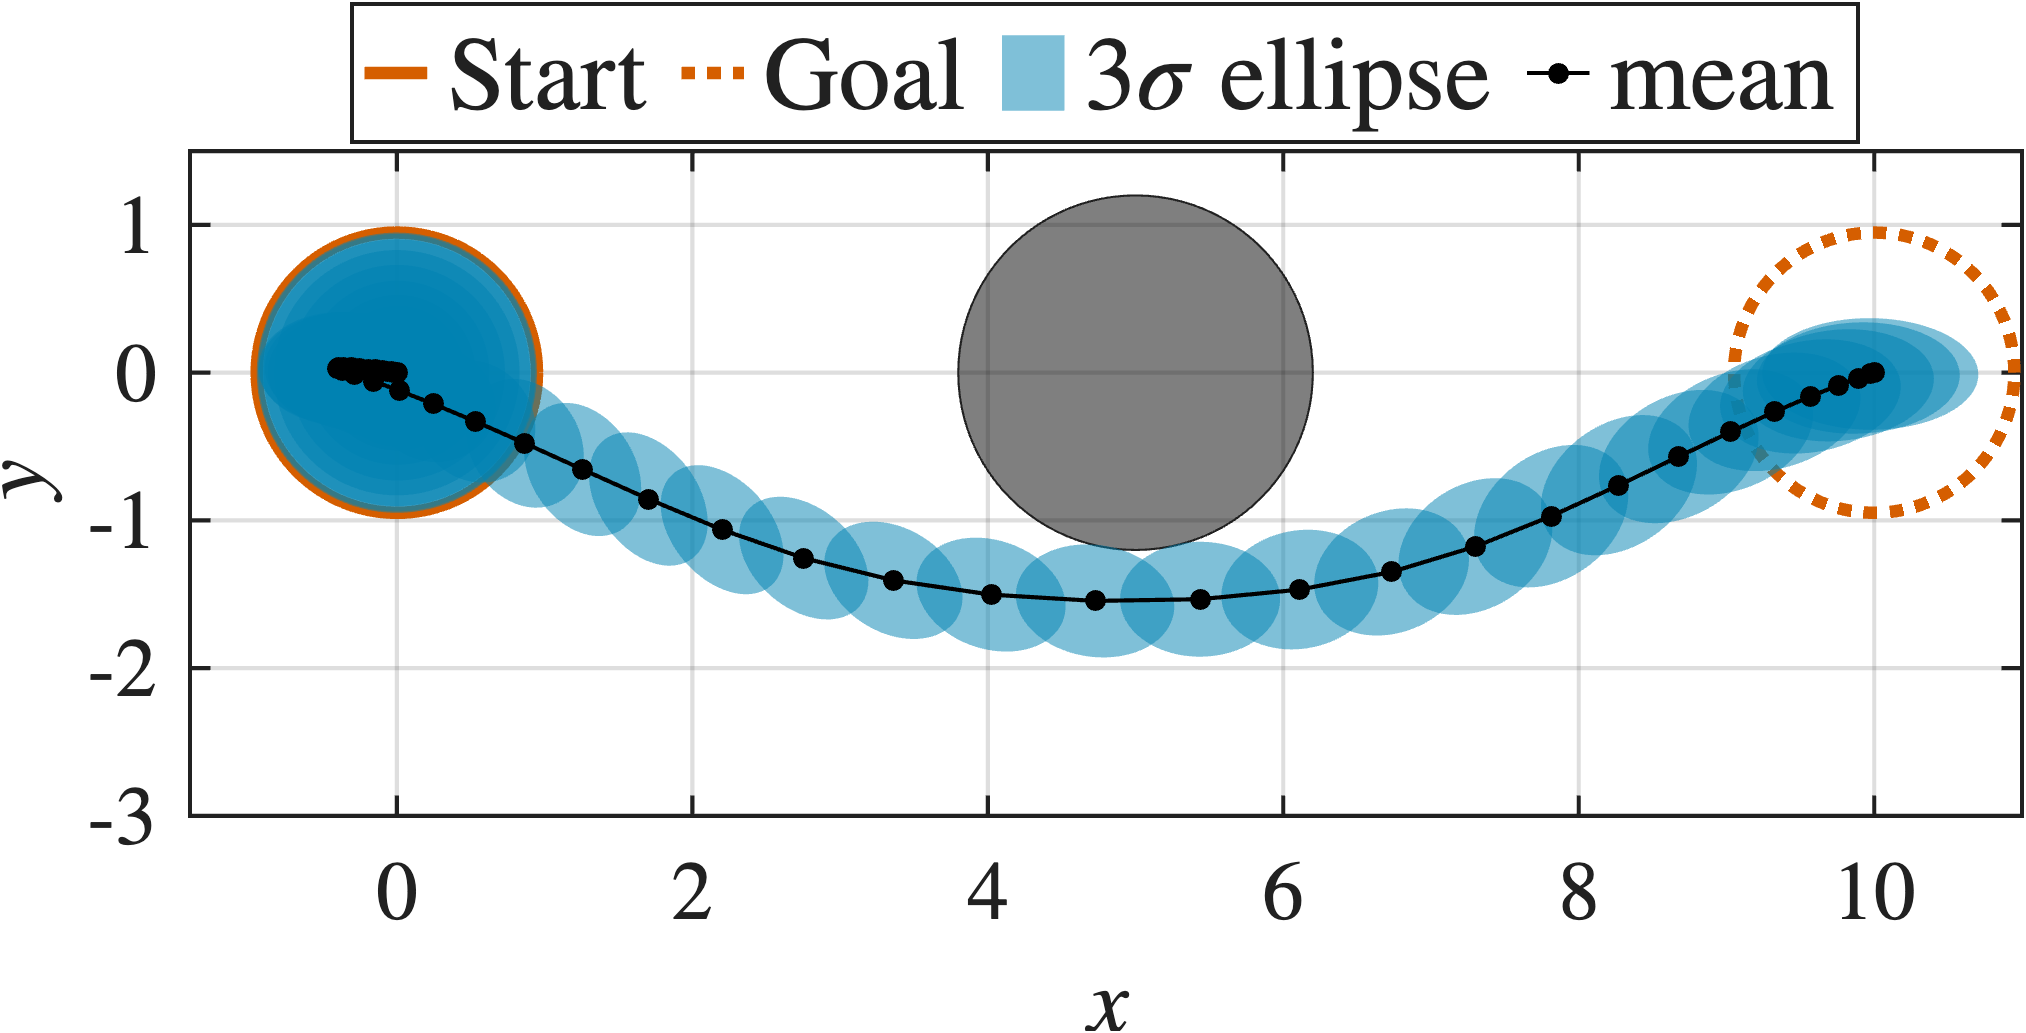
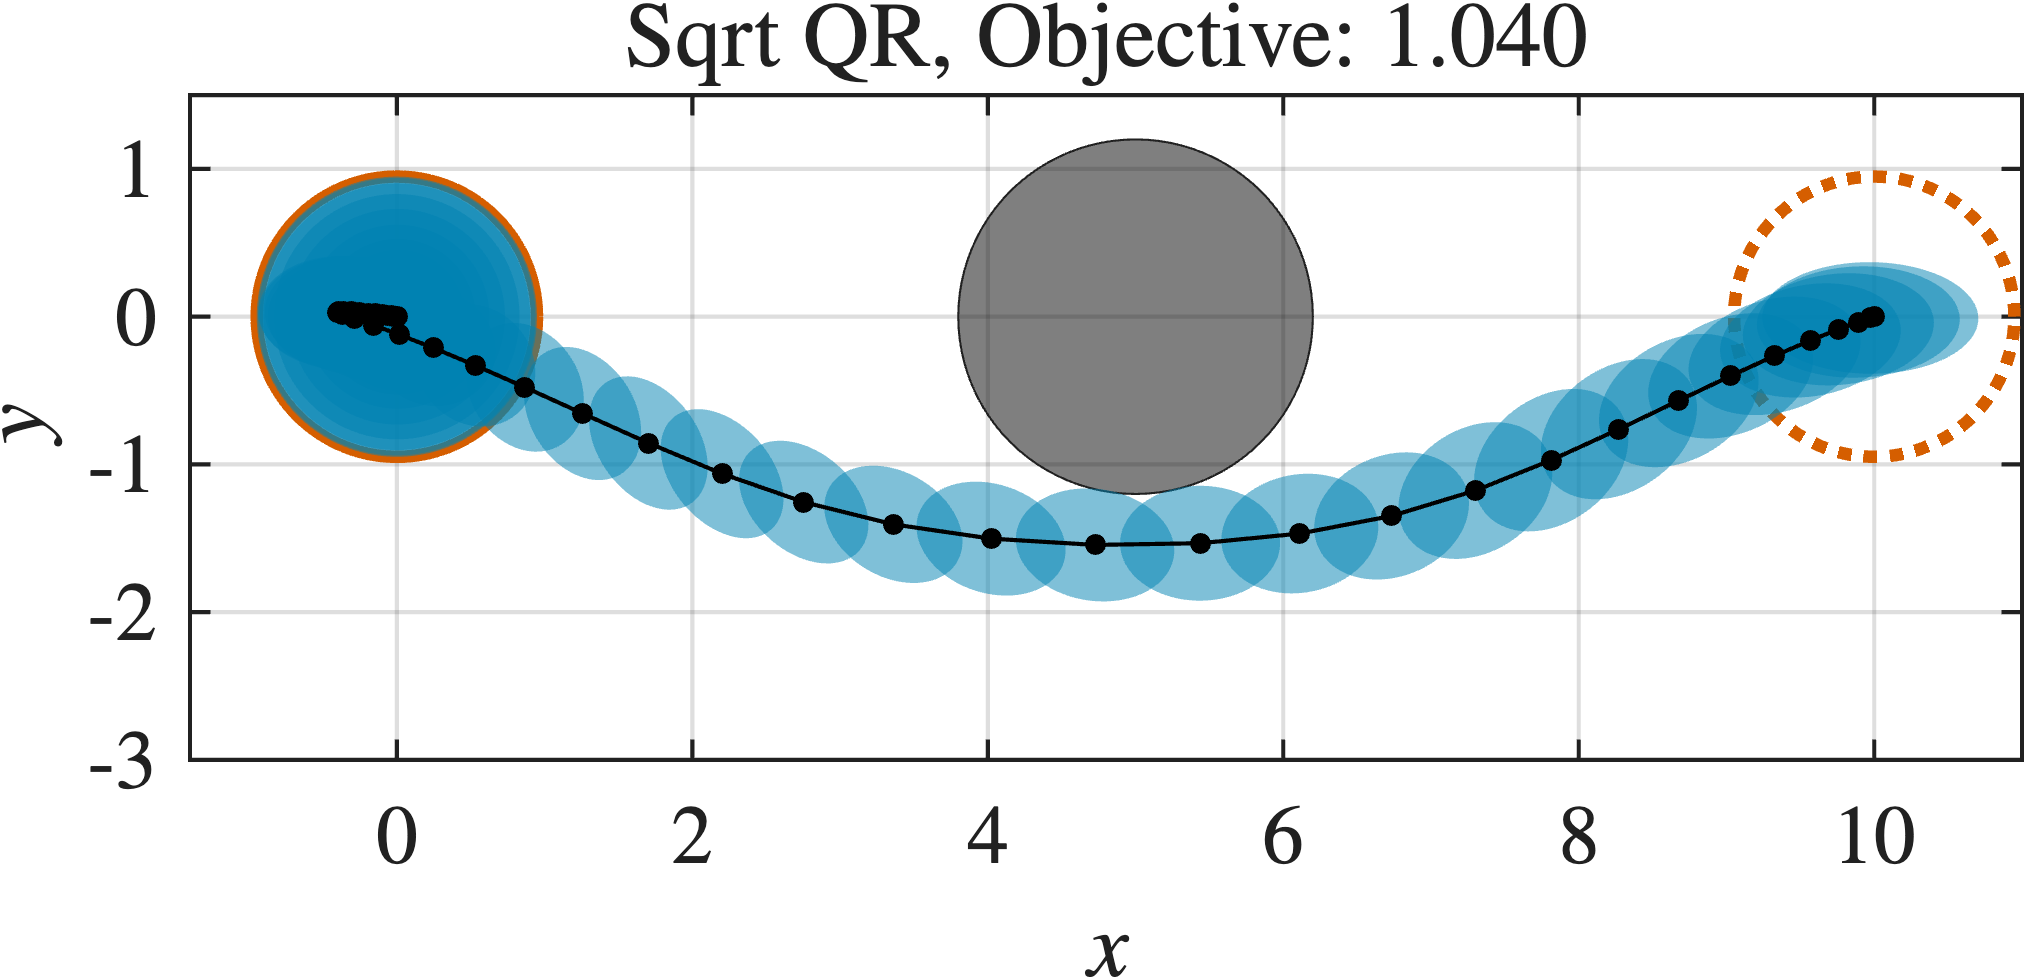
further experiment with obstacle avoidance

diff --git a/planning_with_obstacles.m b/planning_with_obstacles.m
@@ -13,7 +13,7 @@ function filled_circle(center, radius)
 end
 
 function plot_wall(wall_y_pos)
-    yline(wall_y_pos, 'k--');
+    yline(wall_y_pos, 'k');
 end
 
 function plot_problem(obstacle_center, obstacle_radius, wall_y_pos, mu_0, Sigma_0, mu_f, Sigma_f, options)
@@ -35,18 +35,31 @@ function plot_problem(obstacle_center, obstacle_radius, wall_y_pos, mu_0, Sigma_
     end
     axis equal
     plot_obstacles(obstacle_center, obstacle_radius);
-    % plot_wall(wall_y_pos);
+    plot_wall(wall_y_pos);
     plot3sigmaEllipse(mu_0, Sigma_0, Color='#D55E00', DisplayName='Start')
     plot3sigmaEllipse(mu_f, Sigma_f, Color='#D55E00', LineStyle=":", DisplayName='Goal')
     xlabel('$x$')
     ylabel('$y$')
 end
 
-wall_y_pos = 2.2;
-obstacle_center = [5, 0];
-obstacle_radius = 1.2;
+function yn = is_collision_free(x_opt, obstacle_center, obstacle_radius)
+    yn = false;
+    for k = 1:size(x_opt, 2)
+        for i = 1:size(obstacle_center, 1)
+            if norm(x_opt(1:2,k) - obstacle_center(i,:)') < obstacle_radius
+                return
+            end
+        end
+    end
+    yn = true;
+end
 
-% plot_problem(obstacle_center, obstacle_radius, wall_y_pos, mu_0, Sigma_0, mu_f, Sigma_f);
+wall_y_pos = 1.5;
+obstacle_centers = [3, 0.5; 7.5, -1];
+obstacle_radius = 1.2;
+num_obstacles = size(obstacle_centers, 1);
+
+plot_problem(obstacle_centers, obstacle_radius, wall_y_pos, mu_0, Sigma_0, mu_f, Sigma_f);
 
 num_nodes = 50;
 t_f = 30;
@@ -85,7 +98,12 @@ chance_constraints_control={...
     struct('type', 'affine', 'alpha', [1; 0], 'beta', u_max, 'p', control_risk, 'nodes', 1:num_nodes), ...
     struct('type', 'affine', 'alpha', [-1; 0], 'beta', u_max, 'p', control_risk, 'nodes', 1:num_nodes)};
 
-circular_obstacles={struct('center', obstacle_center, 'radius', obstacle_radius, 'p', state_risk)};
+circular_obstacles={struct('center', obstacle_centers(1,:)', 'radius', obstacle_radius, 'p', state_risk), ...
+                    struct('center', obstacle_centers(2,:)', 'radius', obstacle_radius, 'p', state_risk)};
+
+
+chance_constraints_state={struct('type', 'affine', 'alpha', ...
+    [0; 1; 0; 0], 'beta', wall_y_pos, 'p', state_risk, 'nodes', 1:num_nodes+1)};
 
 %% Solve the obstacle-free deterministic problem
 yalmip('clear')
@@ -118,12 +136,12 @@ end
 x_opt = value(x);
 u_opt = value(u);
 
-plot_problem(obstacle_center, obstacle_radius, wall_y_pos, mu_0, Sigma_0, mu_f, Sigma_f);
+plot_problem(obstacle_centers, obstacle_radius, wall_y_pos, mu_0, Sigma_0, mu_f, Sigma_f);
 plot(x_opt(1,:), x_opt(2,:), 'r.-');
 
 %% Solve the constrained deterministic problem via iterative approach
 % Linearize the obstacles around the current state
-penalty_scalar = 10;
+penalty_scalar_u = 10;
 max_iters = 50;
 
 yalmip('clear')
@@ -131,7 +149,8 @@ x = sdpvar(nx, num_nodes+1, 'full');
 u = sdpvar(nu, num_nodes, 'full');
 lambda = sdpvar(1, num_nodes, 'full');
 
-x_ref = x_opt;
+% x_ref = x_opt;
+x_ref = linspace_vec(mu_0, mu_f, num_nodes+1);
 
 for iter = 1:max_iters
 
@@ -145,23 +164,25 @@ for iter = 1:max_iters
         constraints = [constraints, u(:,k) <= u_max];
         constraints = [constraints, u(:,k) >= -u_max];
     end
-    if iter == 1
-        constraints = [constraints, x(2, ceil(num_nodes* 0.5)) >= 0.1]; % symmetry-breaking constraint
-    end
+    % if iter == 1
+        % constraints = [constraints, x(2, ceil(num_nodes* 0.5)) >= 0.1]; % symmetry-breaking constraint
+    % end
     constraints = [constraints, x(:,1) == mu_0, x(:,num_nodes+1) == mu_f];
 
     for k = 1:num_nodes
-        a = - (x_ref(1:2,k) - obstacle_center');
-        b = - 0.5 * norm(x_ref(1:2,k) - obstacle_center')^2  + 0.5 * obstacle_radius^2 - a' * x_ref(1:2,k);
-        constraints = [constraints
-            a' * x(1:2,k) + b <= lambda(k)
-        ];
+        for i = 1:size(obstacle_centers, 1)
+            a = - (x_ref(1:2,k) - obstacle_centers(i,:)');
+            b = - 0.5 * norm(x_ref(1:2,k) - obstacle_centers(i,:)')^2  + 0.5 * obstacle_radius^2 - a' * x_ref(1:2,k);
+            constraints = [constraints
+                a' * x(1:2,k) + b <= lambda(k)
+            ];
+        end
     end
     
     constraints = [constraints, lambda >= 0];
 
     for k = 1:num_nodes
-        objective = objective + x(:,k)' * Q * x(:,k) + u(:,k)' * R * u(:,k) + penalty_scalar * lambda(k);
+        objective = objective + x(:,k)' * Q * x(:,k) + u(:,k)' * R * u(:,k) + penalty_scalar_u * lambda(k);
     end
 
     sol = optimize(constraints, objective, sdpsettings('verbose', 0));
@@ -174,7 +195,7 @@ for iter = 1:max_iters
     x_opt = value(x);
     u_opt = value(u);
 
-    if norm(x_opt - x_ref) < 1e-3 && is_collision_free(x_opt, obstacle_center, obstacle_radius)
+    if norm(x_opt - x_ref) < 1e-3 && is_collision_free(x_opt, obstacle_centers, obstacle_radius)
 
         fprintf('Converged in %d iterations\n', iter);
         break;
@@ -189,23 +210,16 @@ for iter = 1:max_iters
 
 end
 
-function yn = is_collision_free(x_opt, obstacle_center, obstacle_radius)
-    yn = false;
-    for k = 1:size(x_opt, 2)
-        if norm(x_opt(1:2,k) - obstacle_center') < obstacle_radius
-            return
-        end
-    end
-    yn = true;
-end
+
         
 %% Plot the results
-plot_problem(obstacle_center, obstacle_radius, wall_y_pos, mu_0, Sigma_0, mu_f, Sigma_f);
+plot_problem(obstacle_centers, obstacle_radius, wall_y_pos, mu_0, Sigma_0, mu_f, Sigma_f);
 plot(x_opt(1,:), x_opt(2,:), 'r.-');
 
 %% Solve the constrained stochastic problem via iterative approach
 max_iters = 100;
-% penalty_scalar = 100;
+penalty_scalar_x = 10000;
+penalty_scalar_u = 10;
 convergence_tolerance = 1E-2;
 
 yalmip('clear')
@@ -214,12 +228,15 @@ v = sdpvar(nu, num_nodes, 'full');
 P = sdpvar(nx, nx, num_nodes+1);
 U = sdpvar(nu, nx, num_nodes, 'full');
 Y = sdpvar(nu, nu, num_nodes);
-% lambda = sdpvar(1, num_nodes, 'full');
+lambda = sdpvar(1, num_nodes, 'full'); % "virtual control"
+lambda_x = sdpvar(num_obstacles, num_nodes+1, 'full');
 
-mu_ref = x_opt;
+Y_init_value = 1e-5;
+% mu_ref = x_opt;
+mu_ref = linspace_vec(mu_0, mu_f, num_nodes+1);
 P_ref = repmat(Sigma_0, [1,1,num_nodes+1]);
 v_ref = u_opt;
-Y_ref = repmat(0.00001 * eye(nu), [1,1,num_nodes]);
+Y_ref = repmat(Y_init_value * eye(nu), [1,1,num_nodes]); % This is really important!!!
 
 % Initialize tracking variables
 iters_full_covariance = NaN;
@@ -247,12 +264,13 @@ for iter = 1:max_iters
 
     z = norminv(1 - state_risk);
 
-    % for k = 1:num_nodes
-    %     sqrt_ref = sqrt(P_ref(2,2,k));
-    %     constraints = [constraints,
-    %         z / (2 * sqrt_ref) * (P(2,2,k)) + z * sqrt_ref / 2 + mu(2,k) - wall_y_pos <= 0
-    %     ];
-    % end
+    % State wall chance constraints
+    for k = 1:num_nodes
+        sqrt_ref = sqrt(P_ref(2,2,k));
+        constraints = [constraints,
+            z / (2 * sqrt_ref) * (P(2,2,k)) + z * sqrt_ref / 2 + mu(2,k) - wall_y_pos <= 0
+        ];
+    end
 
     % Control chance constraints
     for k = 1:num_nodes
@@ -267,40 +285,42 @@ for iter = 1:max_iters
             z = norminv(1 - p);
             sqrt_ref = sqrt(a' * Y_ref_k * a);
             constraints = [constraints
-                z / (2 * sqrt_ref) * (a' * Y_k * a) + a' * v_k - b + z * sqrt_ref / 2 <= 0
+                z / (2 * sqrt_ref) * (a' * Y_k * a) + a' * v_k - b + z * sqrt_ref / 2 <= lambda(k)
             ];
         end
     end
 
-    % State chance constraints
+    % State obstacle chance constraints
     for k = 1:num_nodes+1
-        a = - (x_ref(1:2,k) - obstacle_center');
-        b = - 0.5 * norm(x_ref(1:2,k) - obstacle_center')^2 + 0.5 * obstacle_radius^2 - a' * x_ref(1:2,k);
-        P_ref_pos_k = P_ref(1:2,1:2,k);
-        sqrt_ref = sqrt(a' * P_ref_pos_k * a);
-        if sqrt_ref <= 0
-            % numerically, the covariance can be non-PSD; in this case
-            % simply set this value to a small positive number
-            % Using nearestSPD sometimes does not terminate for a long
-            % time, so it isn't used here
-            sqrt_ref = 0.001;
+        for i = 1:num_obstacles
+            a = - (x_ref(1:2,k) - obstacle_centers(i,:)');
+            b = - 0.5 * norm(x_ref(1:2,k) - obstacle_centers(i,:)')^2 + 0.5 * obstacle_radius^2 - a' * x_ref(1:2,k);
+            P_ref_pos_k = P_ref(1:2,1:2,k);
+            sqrt_ref = sqrt(a' * P_ref_pos_k * a);
+            if sqrt_ref <= 0
+                % numerically, the covariance can be non-PSD; in this case
+                % simply set this value to a small positive number
+                % Using nearestSPD sometimes does not terminate for a long
+                % time, so it isn't used here
+                sqrt_ref = 0.0001;
+            end
+            constraints = [constraints
+                z / (2 * sqrt_ref) * (a' * P(1:2,1:2,k) * a) + z * sqrt_ref / 2 + a' * mu(1:2,k) + b <= lambda_x(i,k)
+            ];
         end
-        constraints = [constraints
-            z / (2 * sqrt_ref) * (a' * P(1:2,1:2,k) * a) + z * sqrt_ref / 2 + a' * mu(1:2,k) + b <= 0
-        ];
     end
 
-    % constraints = [constraints, lambda >= 0];
+    constraints = [constraints, lambda >= 0, lambda_x(:) >= 0];
 
     for k = 1:num_nodes
         objective = objective + mu(:,k)' * Q * mu(:,k) + v(:,k)' * R * v(:,k) + trace(Q * P(:,:,k)) + trace(R * Y(:,:,k));
     end
 
-    % objective_augmented = objective + penalty_scalar * sum(lambda);
+    objective_augmented = objective + penalty_scalar_u * sum(lambda) + penalty_scalar_x + sum(lambda_x, 'all');
 
     fprintf("Iteration %d    ", iter)
 
-    sol = optimize(constraints, objective, sdpsettings('verbose', 0));
+    sol = optimize(constraints, objective_augmented, sdpsettings('verbose', 0));
 
 
     if sol.problem
@@ -316,11 +336,12 @@ for iter = 1:max_iters
     v_opt = value(v);
     P_opt = value(P);
     Y_opt = value(Y);
-    % lambda_opt = value(lambda);
+    lambda_opt = value(lambda);
     
     objective_full_covariance = value(objective);
 
-    if all(vecnorm(mu_opt - mu_ref, Inf) < convergence_tolerance)
+    if all(vecnorm(mu_opt - mu_ref, Inf) < convergence_tolerance) && is_collision_free(mu_opt, obstacle_centers, obstacle_radius)
+        is_collision_free
         time_full_covariance = toc;
         fprintf('Converged in %d iterations in %.3f seconds\n', iter, time_full_covariance);
         break;
@@ -338,28 +359,32 @@ end
 iters_full_covariance = iter;
 
 %% Plot the results
-plot_problem(obstacle_center, obstacle_radius, wall_y_pos, mu_0, Sigma_0, mu_f, Sigma_f);
+plot_problem(obstacle_centers, obstacle_radius, wall_y_pos, mu_0, Sigma_0, mu_f, Sigma_f);
 for k = 1:num_nodes
     fill3sigmaEllipse(mu_opt(:,k), P_opt(1:2,1:2,k), '', FaceColor='#0082B2', FaceAlpha=0.5, EdgeColor='none', DisplayName="$3 \sigma$ ellipse");
 end
 plot(mu_opt(1,:), mu_opt(2,:), 'k.-', DisplayName='mean', LineWidth=1);
-legend(legendUnq(), Location='northoutside', Orientation='horizontal', IconColumnWidth=15, FontSize=25)
+% legend(legendUnq(), Location='northoutside', Orientation='horizontal', IconColumnWidth=15, FontSize=25)
 
 xlim([-1.4, 11])
 ylim([-3, 1.5])
-exportgraphics(gcf, 'figures/planning_with_obstacles_full_covariance.png', Resolution=300)
-exportgraphics(gcf, 'figures/planning_with_obstacles_full_covariance.pdf', ContentType='vector')
+
+title(sprintf('$Y_{init} =$ %g, Objective: %.3f', Y_init_value, objective_full_covariance))
+% exportgraphics(gcf, sprintf('figures/planning_with_obstacles_full_covariance_Y_init_%g.png', Y_init_value) , Resolution=300)
+% exportgraphics(gcf, 'figures/planning_with_obstacles_full_covariance.pdf', ContentType='vector')
 
 %% Solve with SQRT QR method
 yalmip('clear')
+% x_ref = linspace_vec(mu_0, mu_f, num_nodes+1);
+
 init_guess = struct();
 init_guess.S = interpolate_lower_triangular(chol(Sigma_0, 'lower'), chol(Sigma_f, 'lower'), num_nodes+1, 'log-cholesky');
 init_guess.L = zeros(nu, nx, num_nodes);
-init_guess.mu = x_opt;
-init_guess.v = u_opt;
+% init_guess.mu = x_opt;
+% init_guess.v = u_opt;
+init_guess.mu = linspace_vec(mu_0, mu_f, num_nodes+1);
+init_guess.v = zeros(nu, num_nodes);
 
-% chance_constraints_state={struct('type', 'affine', 'alpha', ...
-    % [0; 1; 0; 0], 'beta', wall_y_pos, 'p', state_risk, 'nodes', 1:num_nodes+1)};
 
 prob_qr = SqrtQRCovarianceSteering(init_guess, ...
     N=num_nodes, ...
@@ -367,6 +392,7 @@ prob_qr = SqrtQRCovarianceSteering(init_guess, ...
     objective_type='LQR', ...
     mu_0=mu_0, mu_f=mu_f, ...
     P_0=Sigma_0, P_f=Sigma_f, Q=Q, R=R, ...
+    chance_constraints_state=chance_constraints_state, ...
     chance_constraints_control=chance_constraints_control,...
     circular_obstacles=circular_obstacles);
 
@@ -395,18 +421,19 @@ else
 end
 
 %% Plot the results
-plot_problem(obstacle_center, obstacle_radius, wall_y_pos, mu_0, Sigma_0, mu_f, Sigma_f);
+plot_problem(obstacle_centers, obstacle_radius, wall_y_pos, mu_0, Sigma_0, mu_f, Sigma_f);
 for k = 1:num_nodes
     fill3sigmaEllipse(prob_qr.mu(:,k), prob_qr.P(:,:,k), '', FaceColor='#0082B2', FaceAlpha=0.5, EdgeColor='none', DisplayName="$3 \sigma$ ellipse");
 end
 plot(prob_qr.mu(1,:), prob_qr.mu(2,:), 'k.-', DisplayName='mean', LineWidth=1);
 
-legend(legendUnq(), Location='northoutside', Orientation='horizontal', IconColumnWidth=15, FontSize=25)
+% legend(legendUnq(), Location='northoutside', Orientation='horizontal', IconColumnWidth=15, FontSize=25)
+title(sprintf('Sqrt QR, Objective: %.3f', objective_qr))
 
 xlim([-1.4, 11])
 ylim([-3, 1.5])
-exportgraphics(gcf, 'figures/planning_with_obstacles_sqrt_qr.png', Resolution=300)
-exportgraphics(gcf, 'figures/planning_with_obstacles_sqrt_qr.pdf', ContentType='vector')
+% exportgraphics(gcf, 'figures/planning_with_obstacles_sqrt_qr.png', Resolution=300)
+% exportgraphics(gcf, 'figures/planning_with_obstacles_sqrt_qr.pdf', ContentType='vector')
 
 %% Plot the results for both methods using a single figure
 % figure;

diff --git a/src/SqrtQRCovarianceSteering.m b/src/SqrtQRCovarianceSteering.m
@@ -407,10 +407,10 @@ classdef SqrtQRCovarianceSteering < SCPProblem
 					mu_k = vars.mu(:,k);
 					S_k = vars.S(:,:,k);
 					mu_ref_k = ref_vars.mu(:,k);
-					a = - (mu_ref_k(pos_idx) - center');
-					b = - 0.5 * norm(mu_ref_k(pos_idx) - center')^2  + 0.5 * radius^2 - a' * mu_ref_k(pos_idx);
+					a = - (mu_ref_k(pos_idx) - center);
+					b = - 0.5 * norm(mu_ref_k(pos_idx) - center)^2  + 0.5 * radius^2 - a' * mu_ref_k(pos_idx);
 					constraints = [constraints;
-						cone([ (- a' * mu_k(pos_idx) - b) / z; S_k(pos_idx,pos_idx)' * a]) % sign is flipped somewhere
+						cone([ (- a' * mu_k(pos_idx) - b) / z; S_k(pos_idx,pos_idx)' * a])
 						% a' * mu_k(pos_idx) + z * norm(a' * S_k(pos_idx,pos_idx)) + b <= 0
 					];
 				end
